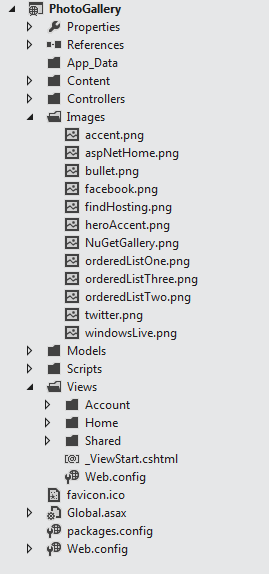
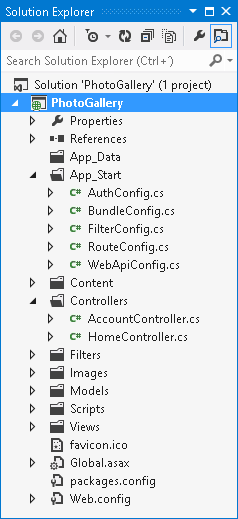
added instructions to enable OAuth

diff --git a/HOL.md b/HOL.md
@@ -8,6 +8,7 @@ To begin with, when you create a new MVC 4 project there is now a mobile applica
 
 In this hands-on lab, you will start with the MVC 4 "Internet Application" project template to create a Photo Gallery application. You will progressively enhance the app using jQuery Mobile and MVC 4's new features to make it compatible with different mobile devices and desktop web browsers. You will also learn about new code recipes for code generation and how MVC 4 makes it easier for you to write asynchronous action methods by supporting Task\<ActionResult\> return types.
 
+<a name="Objectives" />
 ### Objectives ###
 
 In this hands-on lab, you will learn how to:
@@ -24,21 +25,18 @@ In this hands-on lab, you will learn how to:
 
 - Create asynchronous controllers using task support
 
- 
+<a name="Prerequisites" />
 ### Prerequisites ###
 
-- [Microsoft Visual Studio 11 Beta](http://go.microsoft.com/fwlink/?LinkId=240160)
+- [Microsoft Visual Studio Express 2012 for Web](http://www.microsoft.com/visualstudio/eng/products/visual-studio-express-for-web) or superior (read [Appendix B](#AppendixB) for instructions on how to install it).
 
-- ASP.NET MVC 4 (included in the Microsoft Visual Studio 11 Beta installation)
-
-- NuGet Visual Studio Extension (included in the Microsoft Visual Studio 11 Beta installation) 
+- [ASP.NET MVC 4](http://www.asp.net/mvc/mvc4) (included in the Microsoft Visual Studio 2012 installation)
 
 - [Windows Phone 7 Emulator](http://go.microsoft.com/fwlink/?LinkId=226403)
 
-- Optional - [Electric Mobile Simulator](http://www.electricplum.com/dlsim.html) only for Exercise 3 used to browse the web application with an iPhone simulator
+- Optional - [WebMatrix 2](http://www.microsoft.com/web/webmatrix/) with **Electric Plum iPhone Simulator** extension (only for Exercise 3 used to browse the web application with an iPhone simulator)
 
- >**Note:**  By the time this lab was released, the required phone emulators were unsupported on Windows 8 Consumer Preview. 
-
+<a name="Setup" />
 ### Setup ###
 
 Throughout the lab document, you will be instructed to insert code blocks. For your convenience, most of that code is provided as Visual Studio Code Snippets, which you can use from within Visual Studio to avoid having to add it manually.
@@ -50,33 +48,34 @@ To install the code snippets:
 1. Double-click the **Setup.cmd** file in this folder to install the Visual Studio code snippets.
 
  
-If you are not familiar with the Visual Studio Code Snippets, and want to learn how to use them, you can refer to the appendix from this document "[Appendix: Using Code Snippets](#Appendix)".
+If you are not familiar with the Visual Studio Code Snippets, and want to learn how to use them, you can refer to the appendix from this document "[Appendix: Using Code Snippets](#AppendixA)".
 
+<a name="Exercises" />
 ## Exercises ##
 
 This hands-on lab includes the following exercises:
 
-1. New MVC 4 Project Templates
+1. [New MVC 4 Project Templates](#Exercise1)
 
-1. Creating the Photo Gallery Web Application
+1. [Creating the Photo Gallery Web Application](#Exercise2)
 
-1. Adding Support for Mobile Devices
+1. [Adding Support for Mobile Devices](#Exercise3)
 
-1. Using Asynchronous Controllers
+1. [Using Asynchronous Controllers](#Exercise4)
 
 > **Note:** Each exercise is accompanied by a starting solution-located in the **Begin** folder of the exercise-that allows you to follow each exercise independently of the others. Please be aware that the code snippets that are added during an exercise are missing from these starting solutions and that they will not necessarily work until you complete the exercise.
 
 > Inside the source code for an exercise, you will also find an **End** folder containing a Visual Studio solution with the resulting code from completing the steps in the corresponding exercise. You can use these solutions as guidance if you need additional help as you work through this hands-on lab.
 
- 
 
+<a name="Exercise1" />
 ### Exercise 1: New MVC4 Project Templates ###
 
 In this exercise, you will explore the enhancements in the ASP.NET MVC4 Project templates. In addition to the Internet Application template, already present in MVC 3, this version now includes a separate template for Mobile applications. First, you will look at some relevant features of each of the templates. Then, you will work on rendering your page properly on the different platforms by using the right approach.
 
 #### Task 1 - Exploring the Internet Application Template ####
 
-1. Open **Visual Studio 11**.
+1. Open **Visual Studio**.
 
 1. Select the **File | New | Project** menu command. In the **New Project** dialog, select the **Visual C# | Web** template on the left pane tree, and choose **ASP**.**NET MVC 4 Web Application.** Name the project **PhotoGallery**, select a location (or leave the default) and click **OK**. 
 
@@ -105,30 +104,86 @@ In this exercise, you will explore the enhancements in the ASP.NET MVC4 Project 
 
 	    ![New Contact page](./images/New-Contact-page.png?raw=true "New Contact page")
  
-	    _New Contact page_    
-    - **Richer UI with JavaScript**
+	    _New Contact page_
 
-	    Another enhancement to default project templates is the use of JavaScript to provide a more interactive JavaScript. The Login and Register links used in the template exemplify how to use the jQuery UI Dialog to display a fancy login screen.
-
-	    ![Log On dialog](./images/Log-On-dialog.png?raw=true "Log On dialog")
- 
-	    _Log On dialog_
-  
-	    ![Registration dialog](./images/Registration-dialog.png?raw=true "Registration dialog")
- 
-	    _Registration dialog_  
     - **Adaptive Rendering**
 
 	    Check out resizing the browser window and notice how the page layout dynamically adapts to the new window size. These templates use the adaptive rendering technique to render properly in both desktop and mobile platforms without any customization.
 	    ![MVC 4 project template in different browser sizes](./images/MVC-4-project-template-in-different-browser-sizes.png?raw=true "MVC 4 project template in different browser sizes")
  
 	    _MVC 4 project template in different browser sizes_  
+
+    - **Richer UI with JavaScript**
+
+	    Another enhancement to default project templates is the use of JavaScript to provide a more interactive JavaScript. The Login and Register links used in the template exemplify how to use the jQuery Validations to validate the input fields from client-side.
+
+	    ![jQuery Validation](images/jquery-validation.png?raw=true)
+
+		 _jQuery Validation_
+
+		> **Note:** Notice the two log in sections, in the first section you can log in using a registerd account from the site and in the second section you can altenativelly log in using another authentication service like google (disabled by default).
+
+
 1. Close the browser to stop the debugger and return to Visual Studio.
-1. Now you are able to explore the solution and check out some of the new features introduced by ASP.NET MVC 4 in the project template.
+
+1. Open the file **AuthConfig.cs** located under the **App_Start** folder.
+
+1. Remove the comment from the last line to register Google client for _OAuth_ authentication.
+
+	<!-- mark:20 -->
+	````C#
+    public static class AuthConfig
+    {
+        public static void RegisterAuth()
+        {
+            // To let users of this site log in using their accounts from other sites such as Microsoft, Facebook, and Twitter,
+            // you must update this site. For more information visit http://go.microsoft.com/fwlink/?LinkID=252166
+
+            //OAuthWebSecurity.RegisterMicrosoftClient(
+            //    clientId: "",
+            //    clientSecret: "");
+
+            //OAuthWebSecurity.RegisterTwitterClient(
+            //    consumerKey: "",
+            //    consumerSecret: "");
+
+            //OAuthWebSecurity.RegisterFacebookClient(
+            //    appId: "",
+            //    appSecret: "");
+
+            OAuthWebSecurity.RegisterGoogleClient();
+        }
+    }
+	````
+	
+	> **Note:** Notice you can easily enable authentication using any OpenID or OAuth service like Facebook, Twitter, Microsoft, etc.
+
+1. Press **F5** to run the solution and navigate to the login page.
+
+1. Select **Google** service to log in.
+
+	![Selecting the log in service](images/selecting-the-log-in-service.png?raw=true)
+
+	_Selecting the log in service_
+
+1. Log in using your Google account.
+
+1. Allow the site (localhost) to retrieve information from Google account.
+
+1. Finally, you will have to register in the site to associate the Google account.
+
+	![Associate your Google account](images/associate-your-google-account.png?raw=true)
+
+	_Associating your Google account_
+
+1. Close the browser to stop the debugger and return to Visual Studio.
+
+1. Now let's explore the solution to check out another new features introduced by ASP.NET MVC 4 in the project template.
 
  	![The MVC4 Internet Application Project Template](./images/The-MVC4-Internet-Application-Project-Template.png?raw=true "The MVC4 Internet Application Project Template")
  
 	_The MVC4 Internet Application Project Template_  
+
     - **HTML 5 Markup**
 
 	    Browse template views to find out the new theme markup.
@@ -273,8 +328,8 @@ You will now explore how the adaptive rendering works, improving the readability
 
 1. In Visual Studio, press **SHIFT** + **F5** to stop debugging the application.
 
- 
 
+<a name="Exercise2" />
 ### Exercise 2: Creating the Photo Gallery Web Application ###
 
 In this exercise, you will work on a Photo Gallery application to display photos. You will start with the ASP.NET MVC 4 project template, and then you will add a feature to retrieve photos from a service and display them in the home page.
@@ -285,7 +340,7 @@ In the following exercise, you will update this solution to enhance the way it i
 
 In this task, you will create a mock of the photo service to retrieve the content that will be displayed in the gallery. To do this, you will add a new controller that will simply return a JSON file with the data of each photo.
 
-1. Open **Visual Studio 11** if not already opened.
+1. Open **Visual Studio** if not already opened.
 
 1. Select the **File | New | Project** menu command. In the **New Project** dialog, select the **Visual C# | Web** template on the left pane tree, and choose **ASP**.**NET MVC 4 Web Application.** Name the project **PhotoGallery**, select a location (or leave the default) and click **OK**. Alternatively, you can continue working from your existing MVC 4 **Internet Application** solution from **Exercise 1** and skip the next step.
 
@@ -411,15 +466,15 @@ In this task, you will update the Home page to show the photo gallery by using t
 
 1. In Visual Studio, press **SHIFT** + **F5** to stop debugging the application.
 
- 
 
+<a name="Exercise3" />
 ### Exercise 3: Adding support for mobile devices ###
 
 One of the key updates in ASP.NET MVC 4 is the support for mobile development. In this exercise, you will explore MVC4 new features for mobile applications by extending the PhotoGallery solution you have created in the previous exercise.
 
 #### Task 1 - Installing jQuery Mobile in an ASP.NET MVC 4 Application ####
 
-1. Open **Visual Studio 11** if not already opened.
+1. Open **Visual Studio** if not already opened.
 
 1. Open the **MVC4Lab-Ex3-Begin.sln** solution located in **Source\Ex3-MobileSupport\Begin** from this lab's folder. Alternatively, you can continue working on your existing solution from the previous exercise.
 
@@ -753,6 +808,7 @@ In this task, you will create a customized layout for iPhone devices, and you wi
  	_Using different views for each mobile device_
  
 
+<a name="Exercise4" />
 ### Exercise 4: Using Asynchronous Controllers ###
 
  Microsoft .NET Framework 4.5 introduces new language features in C# and Visual Basic to provide a new foundation for asynchrony in .NET programming. This new foundation makes asynchronous programming similar to - and about as straightforward as - synchronous programming.
@@ -762,7 +818,7 @@ This exercise explains the basics of asynchronous operation in ASP.NET MVC 4. If
 
 #### Task 1 - Implementing an Asynchronous Controller ####
 
-1. Open **Visual Studio 11** if not already opened.
+1. Open **Visual Studio** if not already opened.
 
 1. Open the **MVC4Lab-Ex4-Begin.sln** solution located in **Source\Ex4-Async\Begin** from this lab's folder. Alternatively, you can continue working on your existing solution from the previous exercise.
 
@@ -827,7 +883,7 @@ This exercise explains the basics of asynchronous operation in ASP.NET MVC 4. If
 
 1. Run the application. You will notice no major changes, but your code will not block a thread from the thread pool making a better usage of the server resources and improving performance.
 
-	> **Note:** You can learn more about the new asynchronous programming features in the lab "**Asynchronous Programming in .NET 4.5 with C# and Visual Basic**" included in the Visual Studio 11 Training Kit.
+	> **Note:** You can learn more about the new asynchronous programming features in the lab "**Asynchronous Programming in .NET 4.5 with C# and Visual Basic**" included in the Visual Studio Training Kit.
 
  
 
@@ -922,8 +978,25 @@ Asynchronous action methods that return Task instances can also support time-out
  
  	_Time-out exception handled_
 
-<a name="Appendix" />
-## Appendix: Using Code Snippets ##
+<a name="Summary" />
+## Summary ##
+
+In this hands-on-lab, you've observed some of the new features resident in ASP.NET MVC 4. The following concepts have been discussed:
+
+- Take advantage of the enhancements to the ASP.NET MVC project templates-including the new mobile application project template
+
+- Use the HTML5 viewport attribute and CSS media queries to improve the display on mobile devices
+
+- Use jQuery Mobile for progressive enhancements and for building touch-optimized web UI
+
+- Create mobile-specific views
+
+- Use the view-switcher component to toggle between mobile and desktop views in the application
+
+- Create asynchronous controllers using task support
+
+<a name="AppendixA" />
+## Appendix A: Using Code Snippets ##
 
 With code snippets, you have all the code you need at your fingertips. The lab document will tell you exactly when you can use them, as shown in the following figure.
 
@@ -972,19 +1045,9 @@ _Right-click where you want to insert the code snippet and select Insert Snippet
  ![Pick the relevant snippet from the list, by clicking on it](./images/Pick-the-relevant-snippet-from-the-list,-by-clicking-on-it.png?raw=true "Pick the relevant snippet from the list, by clicking on it")
  
  _Pick the relevant snippet from the list, by clicking on it_
- 
-## Summary ##
 
-In this hands-on-lab, you've observed some of the new features resident in ASP.NET MVC 4. The following concepts have been discussed:
+<a name="AppendixC" />
+## Appendix C: Installing WebMatrix 2 and iPhone Simulator ##
+To run your site in a simulated iPhone device you can use the WebMatrix extension "Electric Mobile Simulator for the iPhone". Also, you can configure the same extension to run the simulator from Visual Studio 2012.
 
-- Take advantage of the enhancements to the ASP.NET MVC project templates-including the new mobile application project template
-
-- Use the HTML5 viewport attribute and CSS media queries to improve the display on mobile devices
-
-- Use jQuery Mobile for progressive enhancements and for building touch-optimized web UI
-
-- Create mobile-specific views
-
-- Use the view-switcher component to toggle between mobile and desktop views in the application
-
-- Create asynchronous controllers using task support
+**C:\Users\\_{CurrentUser}_\AppData\Local\Microsoft\WebMatrix\Extensions\20\iPhoneSimulator\ElectricMobileSim\ElectricMobileSim.exe**
